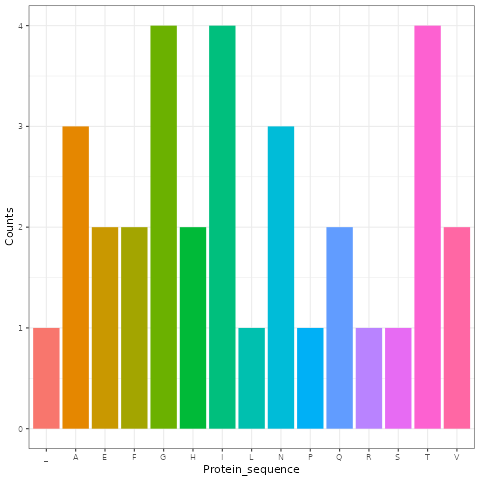
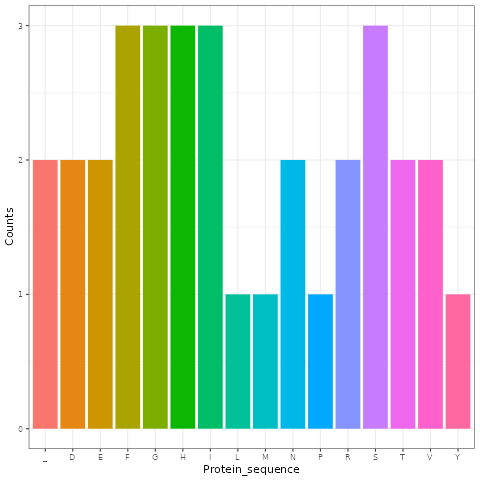
Correcting README

diff --git a/README.md b/README.md
@@ -21,7 +21,7 @@ and returns a random DNA sequence.
 sequence_length <- 100
 dna_sequence <- generate_sequence(sequence_length)
 dna_sequence
-#> [1] "TGGCCCCTCAAACTGTTCAAGCACTTACTAAAGCTATCATCTTTAAGTAATACAACCGTCAGATAAGTTACATCTGGATCAAAAGCCCGAAACATTTCGT"
+#> [1] "AGCACTGCGACACTAGCCGCCTCGCAGGATGTTGTCAGAGGACTCACTTGTATACAACCTAACGCGACCGTCACCCTGCCAGCTGGGTTGCCTTCCAAAG"
 ```
 
 ### Step 2: Transcription - Converting DNA to RNA
@@ -33,7 +33,7 @@ sequence by replacing thymine (T) with uracil (U).
 # Transcribe the DNA sequence to RNA
 rna_sequence <- transcription(dna_sequence)
 rna_sequence
-#> [1] "UGGCCCCUCAAACUGUUCAAGCACUUACUAAAGCUAUCAUCUUUAAGUAAUACAACCGUCAGAUAAGUUACAUCUGGAUCAAAAGCCCGAAACAUUUCGU"
+#> [1] "AGCACUGCGACACUAGCCGCCUCGCAGGAUGUUGUCAGAGGACUCACUUGUAUACAACCUAACGCGACCGUCACCCUGCCAGCUGGGUUGCCUUCCAAAG"
 ```
 
 ### Step 3: Convert RNA to Codons
@@ -46,9 +46,9 @@ first position.
 # Convert RNA sequence to codons
 codons <- RNA_to_codon(rna_sequence)
 codons
-#>  [1] "UGG" "CCC" "CUC" "AAA" "CUG" "UUC" "AAG" "CAC" "UUA" "CUA" "AAG" "CUA"
-#> [13] "UCA" "UCU" "UUA" "AGU" "AAU" "ACA" "ACC" "GUC" "AGA" "UAA" "GUU" "ACA"
-#> [25] "UCU" "GGA" "UCA" "AAA" "GCC" "CGA" "AAC" "AUU" "UCG"
+#>  [1] "AGC" "ACU" "GCG" "ACA" "CUA" "GCC" "GCC" "UCG" "CAG" "GAU" "GUU" "GUC"
+#> [13] "AGA" "GGA" "CUC" "ACU" "UGU" "AUA" "CAA" "CCU" "AAC" "GCG" "ACC" "GUC"
+#> [25] "ACC" "CUG" "CCA" "GCU" "GGG" "UUG" "CCU" "UCC" "AAA"
 ```
 
 ### Step 4: Translate Codons to Amino Acids
@@ -61,7 +61,7 @@ amino acids. This function requires a predefined **codon table** named
 # Translate codons to amino acid sequence
 amino_acid_sequence <- aa_sequence(codons)
 amino_acid_sequence
-#> [1] "WPLKLFKHLLKLSSLSNTTVR_VTSGSKARNIS"
+#> [1] "STATLAASQDVVRGLTCIQPNATVTLPAGLPSK"
 ```
 
 ### Step 5: Visualize Amino Acid Counts
@@ -74,4 +74,40 @@ and generates a barplot of amino acid counts.
 colplot_number_aa_in_protseq(amino_acid_sequence)
 ```
 
-<img src="man/figures/README-unnamed-chunk-7-1.svg" width="100%" />
+<img src="man/figures/README-unnamed-chunk-7-1.png" width="100%" />
+
+## Use cases
+
+The **centraldogma** package is small and specific, making it a good
+package used for educational purposes. It provides a simple way for
+students and teachers to understand the central dogma of molecular
+biology by visually representing the process from DNA to protein.
+Furthermore, the package can also be used as a bioinformatic tool for
+easily discovering the pattern of amino acids in given DNA, RNA, or
+amino acid sequences.
+
+## Future package potentials
+
+While the **centraldogma** package currently provides essential
+functions, several additional features could enhance its utility. Such
+feature could be mutatuon simulation, a function to simulate mutations
+in DNA sequences for further analysing their effect on the protein
+sequence. Another potential feature could be an expanded codon table,
+which would include additional genetic codes for organisms that uses
+non-standarda codons. Lastly, a protein structure prediction function
+could be implemented to examine the potential protein structure of your
+protein.
+
+## A concluding mark
+
+Even though there is a unlimited potential in expanding packages such as
+**centraldogma** it is important to limit the dependencies in the
+package to ensure a more efficient and maintainable package and a more
+user-friendly experience. To provide such user-friendly experience, it
+is important tp consider the pros and cons of choosing between the
+`@importFrom` and `package::function()`. Using `@importFrom` enhances
+code readability and performance by allowing direct function calls, but
+it can obscure function origins and cause confusion with similarly named
+functions. In contrast, `package::function()` clarifies function sources
+and avoids namespace conflicts, making dependencies clearer for users,
+so a balance between both methods can improve maintainability.
